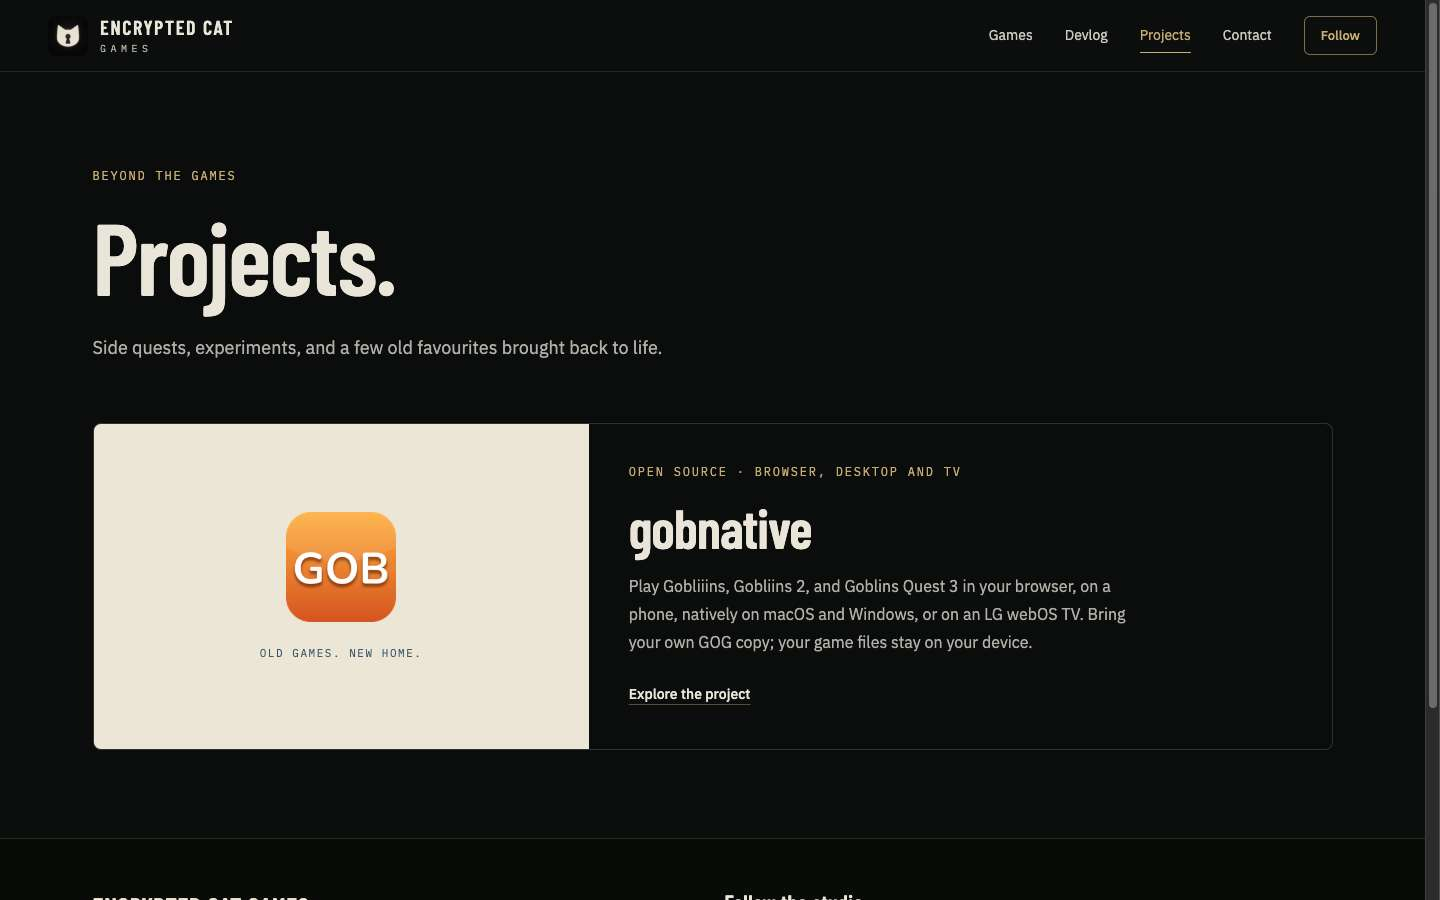
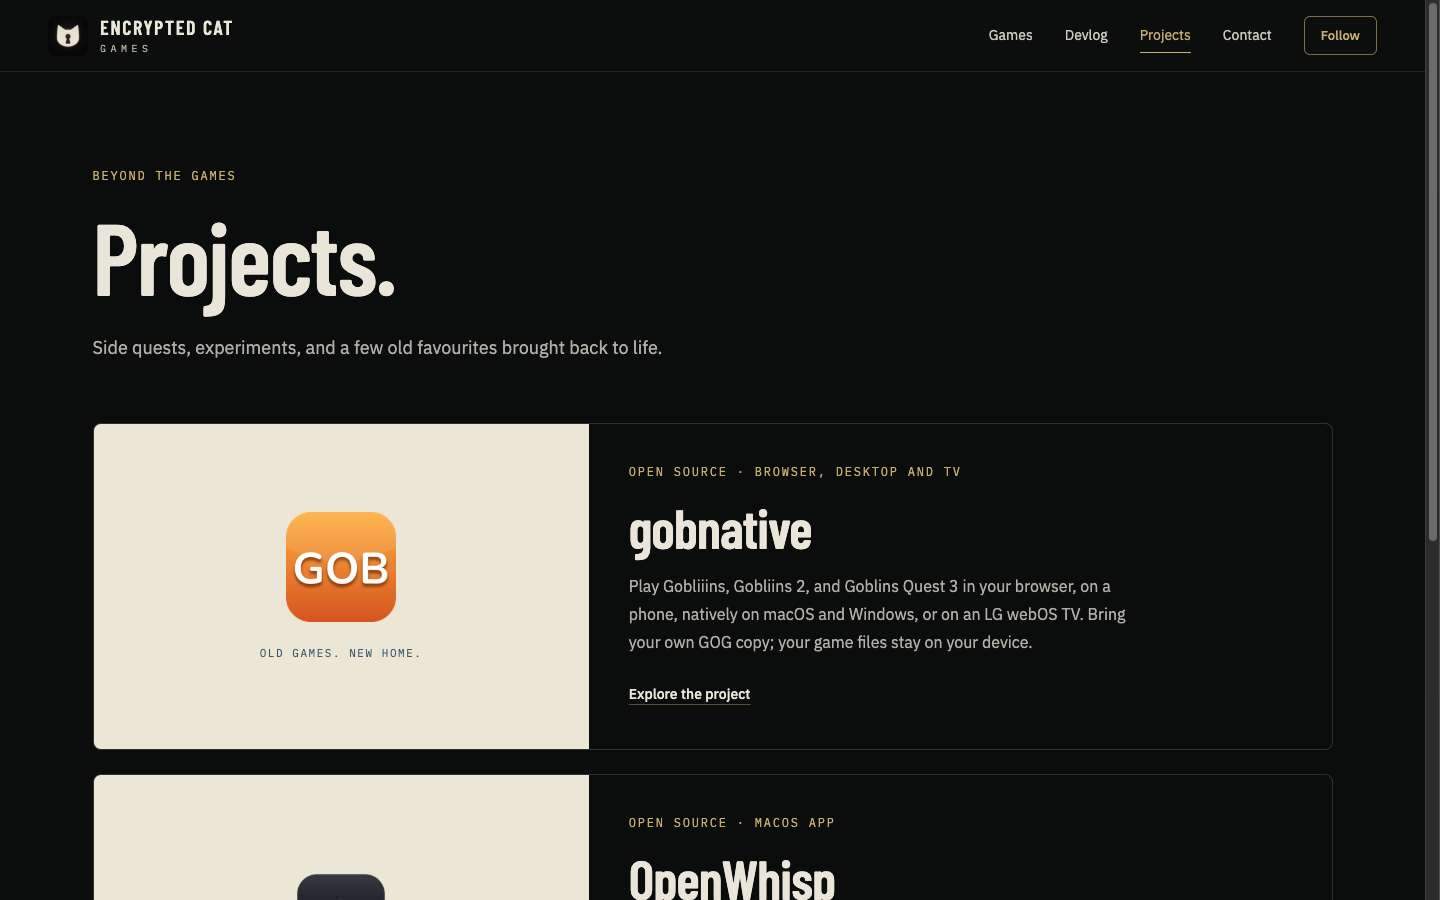
Add OpenWhisp to Projects: a minimal page pointing to openwhisp.app
The devlog only shows a filter for projects that have posts.

Changed region(s): [[0.0625, 0.84, 0.5938, 1.0], [0.9688, 0.5911, 1.0, 0.7778]]

diff --git a/src/data/projects.ts b/src/data/projects.ts
@@ -15,4 +15,18 @@ export const projects = [
     // The project page is a standalone document outside the site layout.
     reload: true,
   },
+  {
+    slug: 'openwhisp',
+    name: 'OpenWhisp',
+    kind: 'Open source · macOS app',
+    status: 'Open source',
+    tagline: 'SPEAK. IT’S TYPED.',
+    icon: 'other-projects/openwhisp/icon.png',
+    description:
+      'Realtime dictation for macOS that runs entirely on your Mac: words appear as you speak. It doubles as a local MCP server, so AI coding agents can hear you too. Free, no account.',
+    path: 'other-projects/openwhisp/',
+    platformTags: ['desktop'] as Platform[],
+    // Its own site has everything; this page points there.
+    site: 'https://openwhisp.app/',
+  },
 ];
